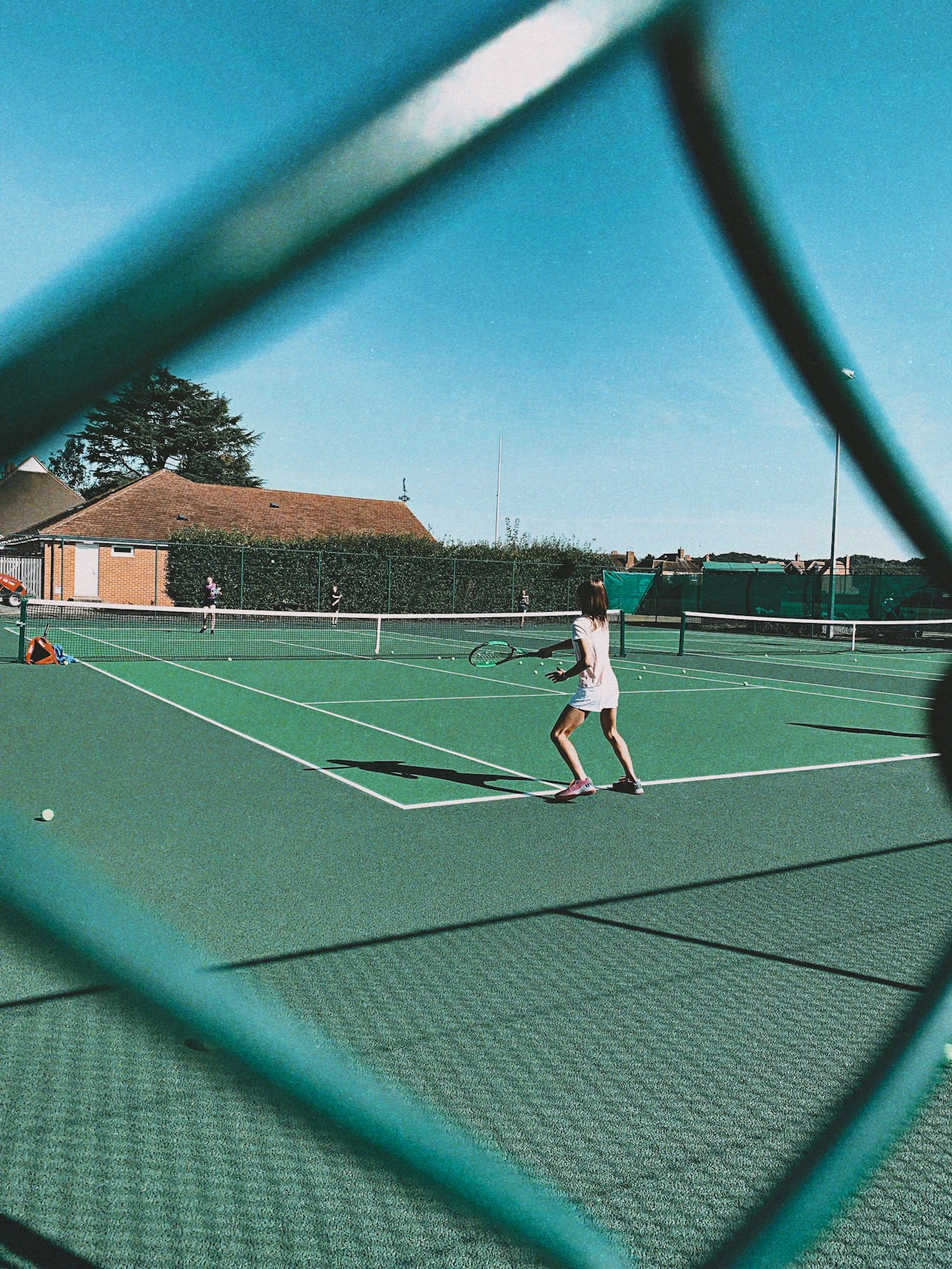
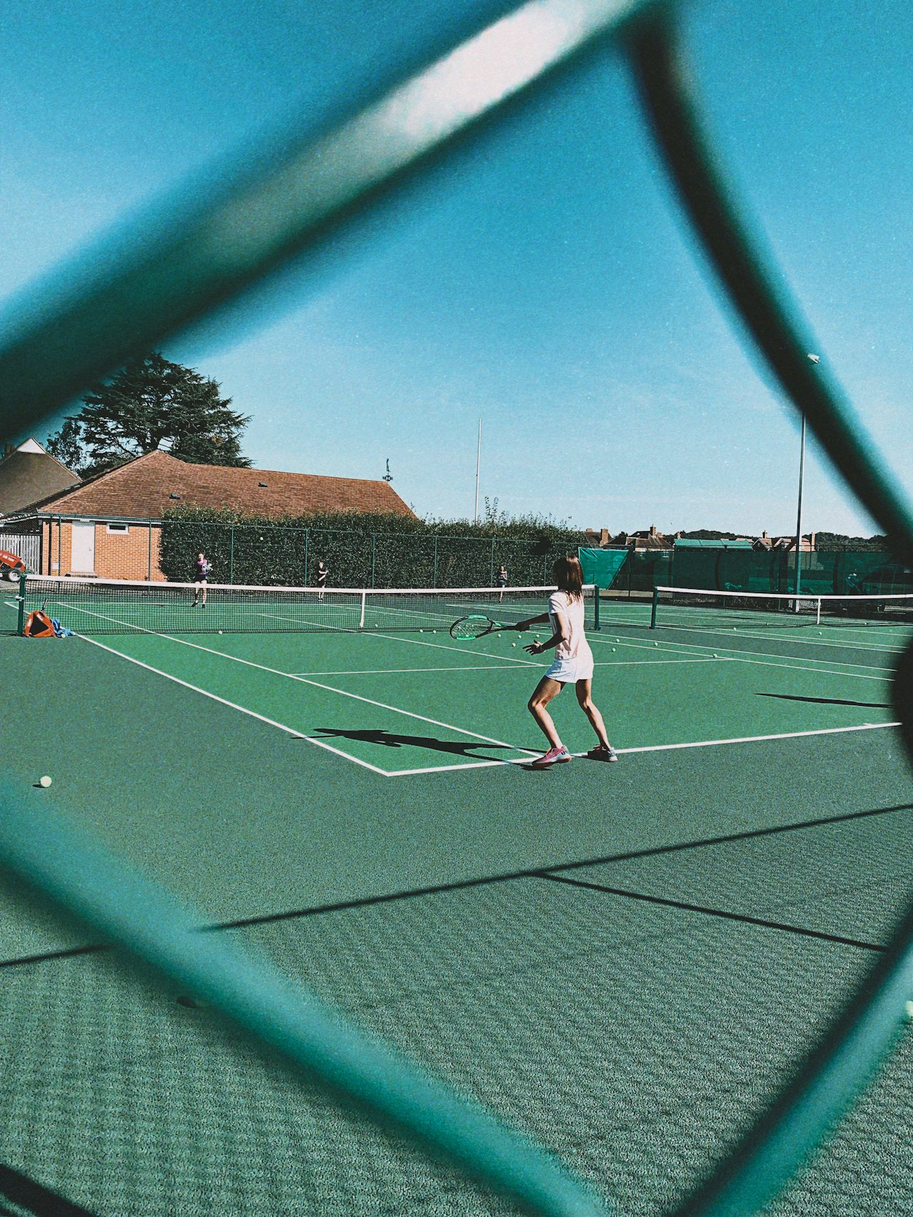
perf+a11y: optimize hero images, respect reduced-motion, add ARIA labels and alert role

diff --git a/src/components/home/HeroVisual.tsx b/src/components/home/HeroVisual.tsx
@@ -1,22 +1,29 @@
 'use client';
 
-import { motion } from 'framer-motion';
+import { motion, useReducedMotion } from 'framer-motion';
 
 // 히어로 듀얼 패널: 흑백 코트 → 컬러로 전환되는 연출 + 슬라이드 인
+// prefers-reduced-motion 사용자는 정적(컬러) 패널로 표시.
 export function HeroVisual() {
+  const reduce = useReducedMotion();
+
   return (
     <div className="relative grid grid-cols-2 gap-3">
       {/* 코트: 흑백으로 시작해 컬러로 전환 */}
       <motion.div
         className="relative aspect-[3/4] translate-y-6 overflow-hidden rounded-2xl bg-cover bg-center"
         style={{ backgroundImage: "url('/images/court.jpg')" }}
-        initial={{ opacity: 0, x: -16, filter: 'grayscale(100%)' }}
-        animate={{ opacity: 1, x: 0, filter: 'grayscale(0%)' }}
-        transition={{
-          opacity: { duration: 0.8, ease: 'easeOut' },
-          x: { duration: 0.8, ease: 'easeOut' },
-          filter: { delay: 1, duration: 2.2, ease: 'easeInOut' },
-        }}
+        initial={reduce ? false : { opacity: 0, x: -16, filter: 'grayscale(100%)' }}
+        animate={reduce ? undefined : { opacity: 1, x: 0, filter: 'grayscale(0%)' }}
+        transition={
+          reduce
+            ? undefined
+            : {
+                opacity: { duration: 0.8, ease: 'easeOut' },
+                x: { duration: 0.8, ease: 'easeOut' },
+                filter: { delay: 1, duration: 2.2, ease: 'easeInOut' },
+              }
+        }
       >
         <div className="absolute inset-0 bg-gradient-to-t from-brand-dark/70 via-transparent to-transparent" />
         <span className="absolute bottom-0 p-4 text-xs text-cream/80">On the court</span>
@@ -26,9 +33,9 @@ export function HeroVisual() {
       <motion.div
         className="relative aspect-[3/4] overflow-hidden rounded-2xl bg-cover bg-center"
         style={{ backgroundImage: "url('/images/campus.jpg')" }}
-        initial={{ opacity: 0, x: 16 }}
-        animate={{ opacity: 1, x: 0 }}
-        transition={{ duration: 0.8, ease: 'easeOut', delay: 0.2 }}
+        initial={reduce ? false : { opacity: 0, x: 16 }}
+        animate={reduce ? undefined : { opacity: 1, x: 0 }}
+        transition={reduce ? undefined : { duration: 0.8, ease: 'easeOut', delay: 0.2 }}
       >
         <div className="absolute inset-0 bg-gradient-to-t from-brand-dark/70 via-transparent to-transparent" />
         <span className="absolute bottom-0 p-4 text-xs text-cream/90">Toward the world</span>

diff --git a/src/components/ui/Reveal.tsx b/src/components/ui/Reveal.tsx
@@ -1,6 +1,6 @@
 'use client';
 
-import { motion } from 'framer-motion';
+import { motion, useReducedMotion } from 'framer-motion';
 
 type RevealProps = {
   children: React.ReactNode;
@@ -8,8 +8,14 @@ type RevealProps = {
   delay?: number;
 };
 
-// 스크롤 진입 시 페이드업 (Framer Motion)
+// 스크롤 진입 시 페이드업 (Framer Motion). prefers-reduced-motion 존중.
 export function Reveal({ children, className, delay = 0 }: RevealProps) {
+  const reduce = useReducedMotion();
+
+  if (reduce) {
+    return <div className={className}>{children}</div>;
+  }
+
   return (
     <motion.div
       className={className}

diff --git a/src/app/globals.css b/src/app/globals.css
@@ -11,6 +11,17 @@
   html {
     scroll-behavior: smooth;
   }
+  /* 접근성: 모션 최소화 선호 시 애니메이션·부드러운 스크롤 비활성화 */
+  @media (prefers-reduced-motion: reduce) {
+    *,
+    ::before,
+    ::after {
+      animation-duration: 0.001ms !important;
+      animation-iteration-count: 1 !important;
+      transition-duration: 0.001ms !important;
+      scroll-behavior: auto !important;
+    }
+  }
   body {
     @apply bg-cream text-brand antialiased;
     font-feature-settings: 'ss01';

diff --git a/src/components/layout/LanguageToggle.tsx b/src/components/layout/LanguageToggle.tsx
@@ -28,6 +28,7 @@ export function LanguageToggle({ tone = 'light' }: { tone?: 'light' | 'dark' }) 
           <button
             type="button"
             onClick={() => switchTo(loc)}
+            aria-label={loc === 'ko' ? '한국어' : 'English'}
             className={`uppercase transition-colors hover:opacity-80 ${
               loc === locale ? active : idle
             }`}

diff --git a/src/components/contact/ContactForm.tsx b/src/components/contact/ContactForm.tsx
@@ -192,7 +192,7 @@ export function ContactForm() {
       </label>
 
       {errorKey ? (
-        <p className="text-sm text-red-600">
+        <p role="alert" className="text-sm text-red-600">
           {errorKey === 'required'
             ? t('required')
             : errorKey === 'consent'
